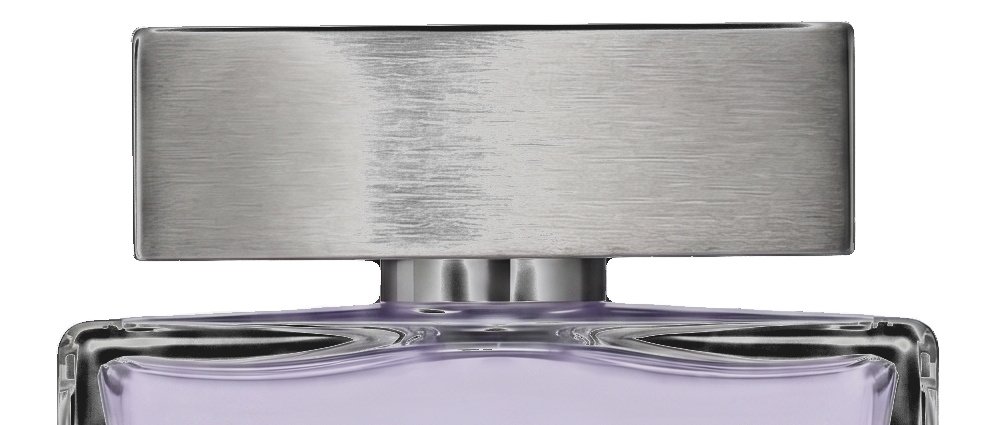
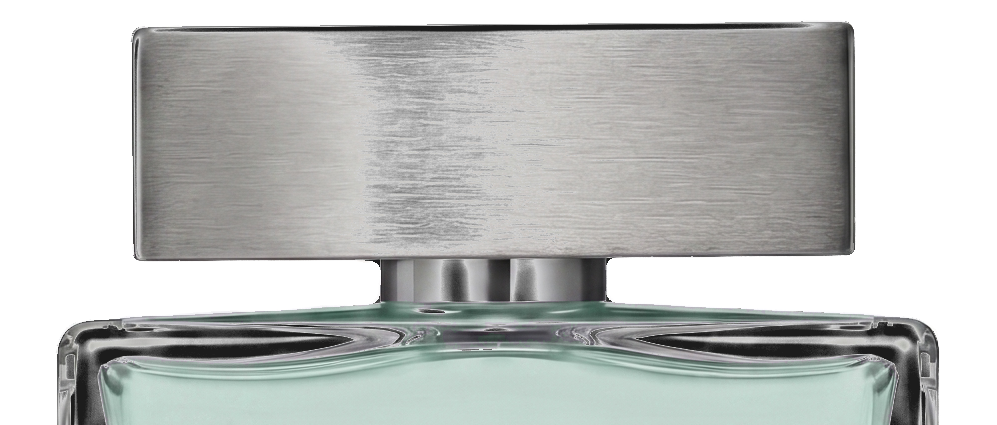
feat: re-hue the static and halo liquid, and fix the copy the grade broke
After volt went green, three of five bottles were still violet-family
(nocturne 239, static 254, halo 263 degrees) and read as leftovers from the
old palette rather than as members of the collection.

Nocturne stays blue on purpose — a blue night against a green house is a
legible contrast, and it is the only scent whose name argues for its hue.
Fever stays amber for the mirror reason: it is the counter-accent.

That leaves static and halo. Rather than ask for two new renders of a bottle
that has not otherwise changed, LIQUID_REHUE rotates their liquid in
prepare-stills.mjs. This is safe because of how the keyer already works:

  - re-lit glass is written as literal grey, so a hue rotation is a no-op on
    it by construction;
  - caps and glass measure chroma 0-6 against the liquid's 17-20 (static) and
    36-37 (halo), so a `chroma >= 10 && 210-300 degrees` gate catches 99%/97%
    of each master's chromatic pixels and no cap or glass pixel at all.

Verified after the run: liquid 251 -> 159 degrees, chroma preserved
byte-for-byte, caps and glass identical to the previous output. The raws are
untouched, so removing an entry restores the original master.

Copy: photos.ts and journal/003 both described the abstract plate as "violet
smoke", which a green duotone makes false — both now read "green smoke". The
iris / orris / heliotrope / black plum notes are deliberately left alone: they
name real perfumery materials, they describe smell rather than house colour,
[…]

diff --git a/src/scripts/modules/newsletter.ts b/src/scripts/modules/newsletter.ts
@@ -6,8 +6,8 @@
 //   the field): empty → `required`; invalid email → `check your email`;
 //   forced failure (?demo=fail) → `didn't send — try again.` Each error
 //   pulses the field line amber once (0.6s — duration unspecified for the
-//   amber pulse; matched to the spec'd UV success pulse, flagged).
-// - Success: input collapses, line pulses UV once (0.6s, 01 §5.5),
+//   amber pulse; matched to the spec'd phosphor success pulse, flagged).
+// - Success: input collapses, line pulses phosphor once (0.6s, 01 §5.5),
 //   message `you're in the current.` (Instrument Serif italic) + muted
 //   sub-line `demo — no list connected.` (07 §3), then
 //   track("newsletter_signup", { source: "footer" }) (07 §5).
@@ -114,7 +114,7 @@ export function createNewsletter(): PageModule {
               return;
             }
 
-            // Success (01 §5.5): line pulses UV once, input collapses,
+            // Success (01 §5.5): line pulses phosphor once, input collapses,
             // serif-italic message + muted demo sub-line.
             pulse(state, input, "var(--color--phosphor)", ctx.reducedMotion);
             if (ctx.reducedMotion) {

diff --git a/src/styles/base.css b/src/styles/base.css
@@ -56,9 +56,9 @@ canvas {
   outline-offset: 3px;
 }
 
-/* btn-primary (01 §5.1) — UV fill, radius xs. Shared across footer
+/* btn-primary (01 §5.1) — phosphor fill, radius xs. Shared across footer
    newsletter, campaign CTAs, PDP. The label is --color--on-phosphor rather than
-   --color--black: black on UV measures 4.47:1 and misses AA, which was
+   --color--black: black on phosphor measures 4.47:1 and misses AA, which was
    the only accessibility failure Lighthouse reported (01 §6.2). */
 .btn-primary {
   display: inline-flex;
@@ -75,7 +75,7 @@ canvas {
   cursor: pointer;
 }
 
-/* btn-secondary (01 §5.1) — 1px border, white text; border → UV on
+/* btn-secondary (01 §5.1) — 1px border, white text; border → phosphor on
    hover, 0.3s power2.out. Label y-flip handled by modules/btn-line.ts.
    ink-4, not ink-3: this is a control boundary and needs 3:1 (01 §6.2). */
 .btn-secondary {

diff --git a/src/scripts/modules/btn-line.ts b/src/scripts/modules/btn-line.ts
@@ -2,7 +2,7 @@
 // (01 §5.1 motion hook `data-anim="btn-line"`).
 //
 // Recipe: GSAP label swap, 0.3s power2.out (micro register, M §2). The
-// border → UV color change is pure CSS :hover; this module owns only the
+// border → phosphor color change is pure CSS :hover; this module owns only the
 // label flip. Markup contract (01 §5.1): label wrapped in
 // <span data-btn-label>. The module clones that span (aria-hidden) and
 // stacks the two copies so hover y-flips original out / clone in.

diff --git a/src/scripts/modules/newsletter.test.ts b/src/scripts/modules/newsletter.test.ts
@@ -115,7 +115,7 @@ describe("modules/newsletter (01 §5.5, 07 §3)", () => {
     vi.useRealTimers();
   });
 
-  it("success: UV pulse, input collapses, success message shows, newsletter_signup tracked (footer)", async () => {
+  it("success: phosphor pulse, input collapses, success message shows, newsletter_signup tracked (footer)", async () => {
     vi.useFakeTimers();
     const module = await load();
     const { form, input, success } = makeForm();

diff --git a/src/lib/photos.ts b/src/lib/photos.ts
@@ -93,7 +93,7 @@ export const macro: Record<string, Photo> = {
     alt: "dried chili and rose",
     exposure: 0.86,
   },
-  aldehydes: { image: abstract, alt: "violet smoke" },
+  aldehydes: { image: abstract, alt: "green smoke" },
 };
 
 /**

diff --git a/docs/engineering/worklog.md b/docs/engineering/worklog.md
@@ -2,6 +2,15 @@
 
 > One entry per PR: date, PR title, spec sections implemented, deviations/flags raised, notable judgment calls. 3–5 lines each, newest first. Required by `00-implementation-guide.md §9`.
 
+## 2026-08-31 — feat: re-hue the static and halo liquid, and the copy the green grade made wrong
+
+- Closes the half of the house-colour change the token swap could not reach. After volt went green, three of five bottles were still violet-family: nocturne 239°, static 254°, halo 263°. In a green house they read as leftovers from the old palette rather than as members of the collection.
+- **Nocturne kept blue, deliberately.** A blue night against a green house is a legible contrast, not a leftover — and it is the only scent whose name argues for its hue. Fever is untouched for the same reason in reverse: amber is the counter-accent (`01 §1` rule 4).
+- **`LIQUID_REHUE` added to `prepare-stills.mjs`** rather than asking for two new renders of a bottle that has not otherwise changed. It is safe because of how the keyer already works, not by luck: re-lit glass is written as literal grey, so a hue rotation is a no-op on it *by construction*; and caps/glass measure chroma 0–6 against the liquid's 17–20 (static) and 36–37 (halo), so a `chroma >= 10 && 210°–300°` gate catches 99%/97% of each master's chromatic pixels and no cap or glass pixel. Verified after the run: liquid 251→159°, chroma preserved byte-for-byte (17→17, 36→36), caps and glass identical to the previous output. Raws untouched, so removing an entry restores the original master.
+- `/dev/light`'s registration stack (all five at 40% opacity) shows one silhouette, no double edge — the page's own acceptance criterion, and the thing the volt swap put at risk.
+- **Copy:** `photos.ts` and `journal/003` both described the abstract plate as `violet smoke`; under a green duotone that alt text was simply false, so both now read `green smoke`. The **iris / orris / heliotrope / black plum notes were deliberately left alone** — they name real perfumery materials (orris root is beige), they describe smell rather than house colour, and `halo`'s `the glow. iris in soft focus.` ships as its meta description and schema.org `Product.description`.
+- Swept ~12 stale comment references to `UV` and `lilac-3` that the previous PR's rename missed because they use the bare word rather than the `--color--` prefix (`base.css`, `Footer`, `Nav`, `newsletter`, `btn-line`, `contact`). One `violet` mention survives on purpose, in the Duotone note explaining why the mix ratio moved.
+
 ## 2026-08-31 — feat: the house goes green (01 §2.1 amended, 00-brief §2)
 
 - Accent moves ultraviolet `#be29ff` → signal green **`#008d57`**, following the replacement `volt` master. Volt is item 01 and its scent tint *is* the house accent, so a green bottle made the violet identity wrong — this is the change the new render forces, not a change of taste.

diff --git a/src/content/journal/003-what-diffusion-means.md b/src/content/journal/003-what-diffusion-means.md
@@ -3,7 +3,7 @@ title: "what diffusion actually means"
 date: 2026-07-22
 leadImage:
   src: "" # AST-08 pending
-  alt: "violet smoke against near-black"
+  alt: "green smoke against near-black"
 scent: halo
 ---
 
